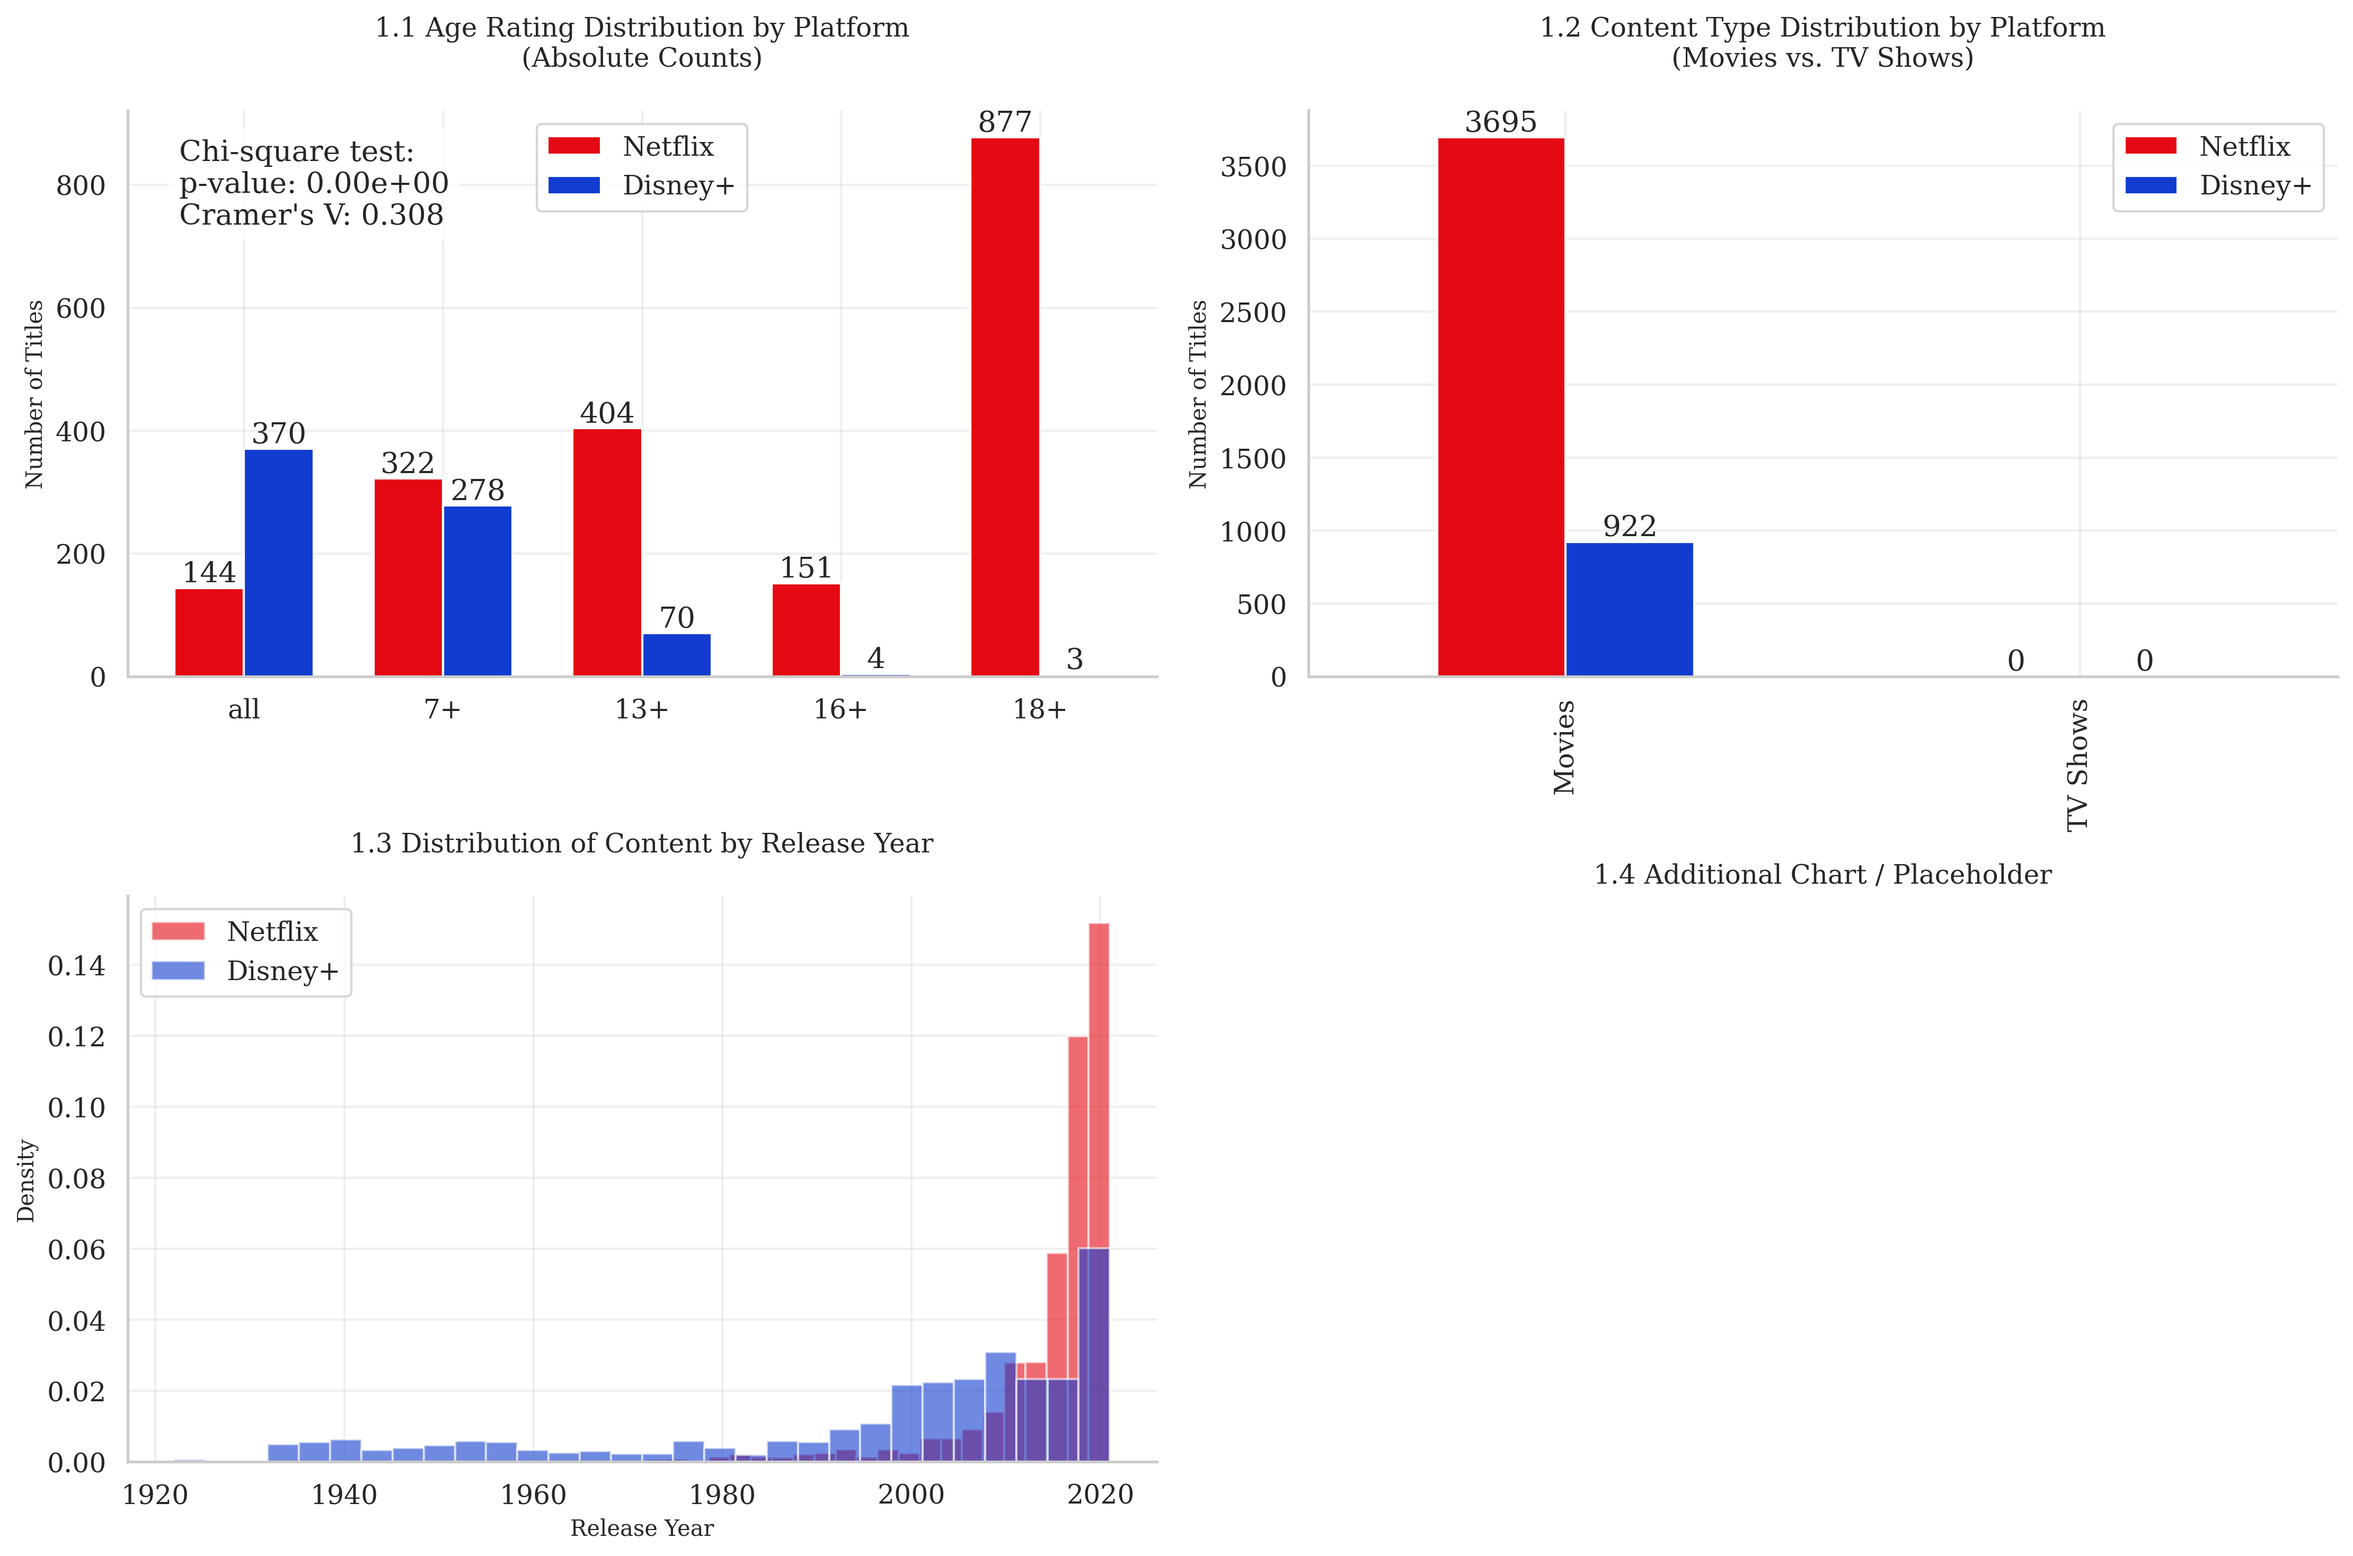
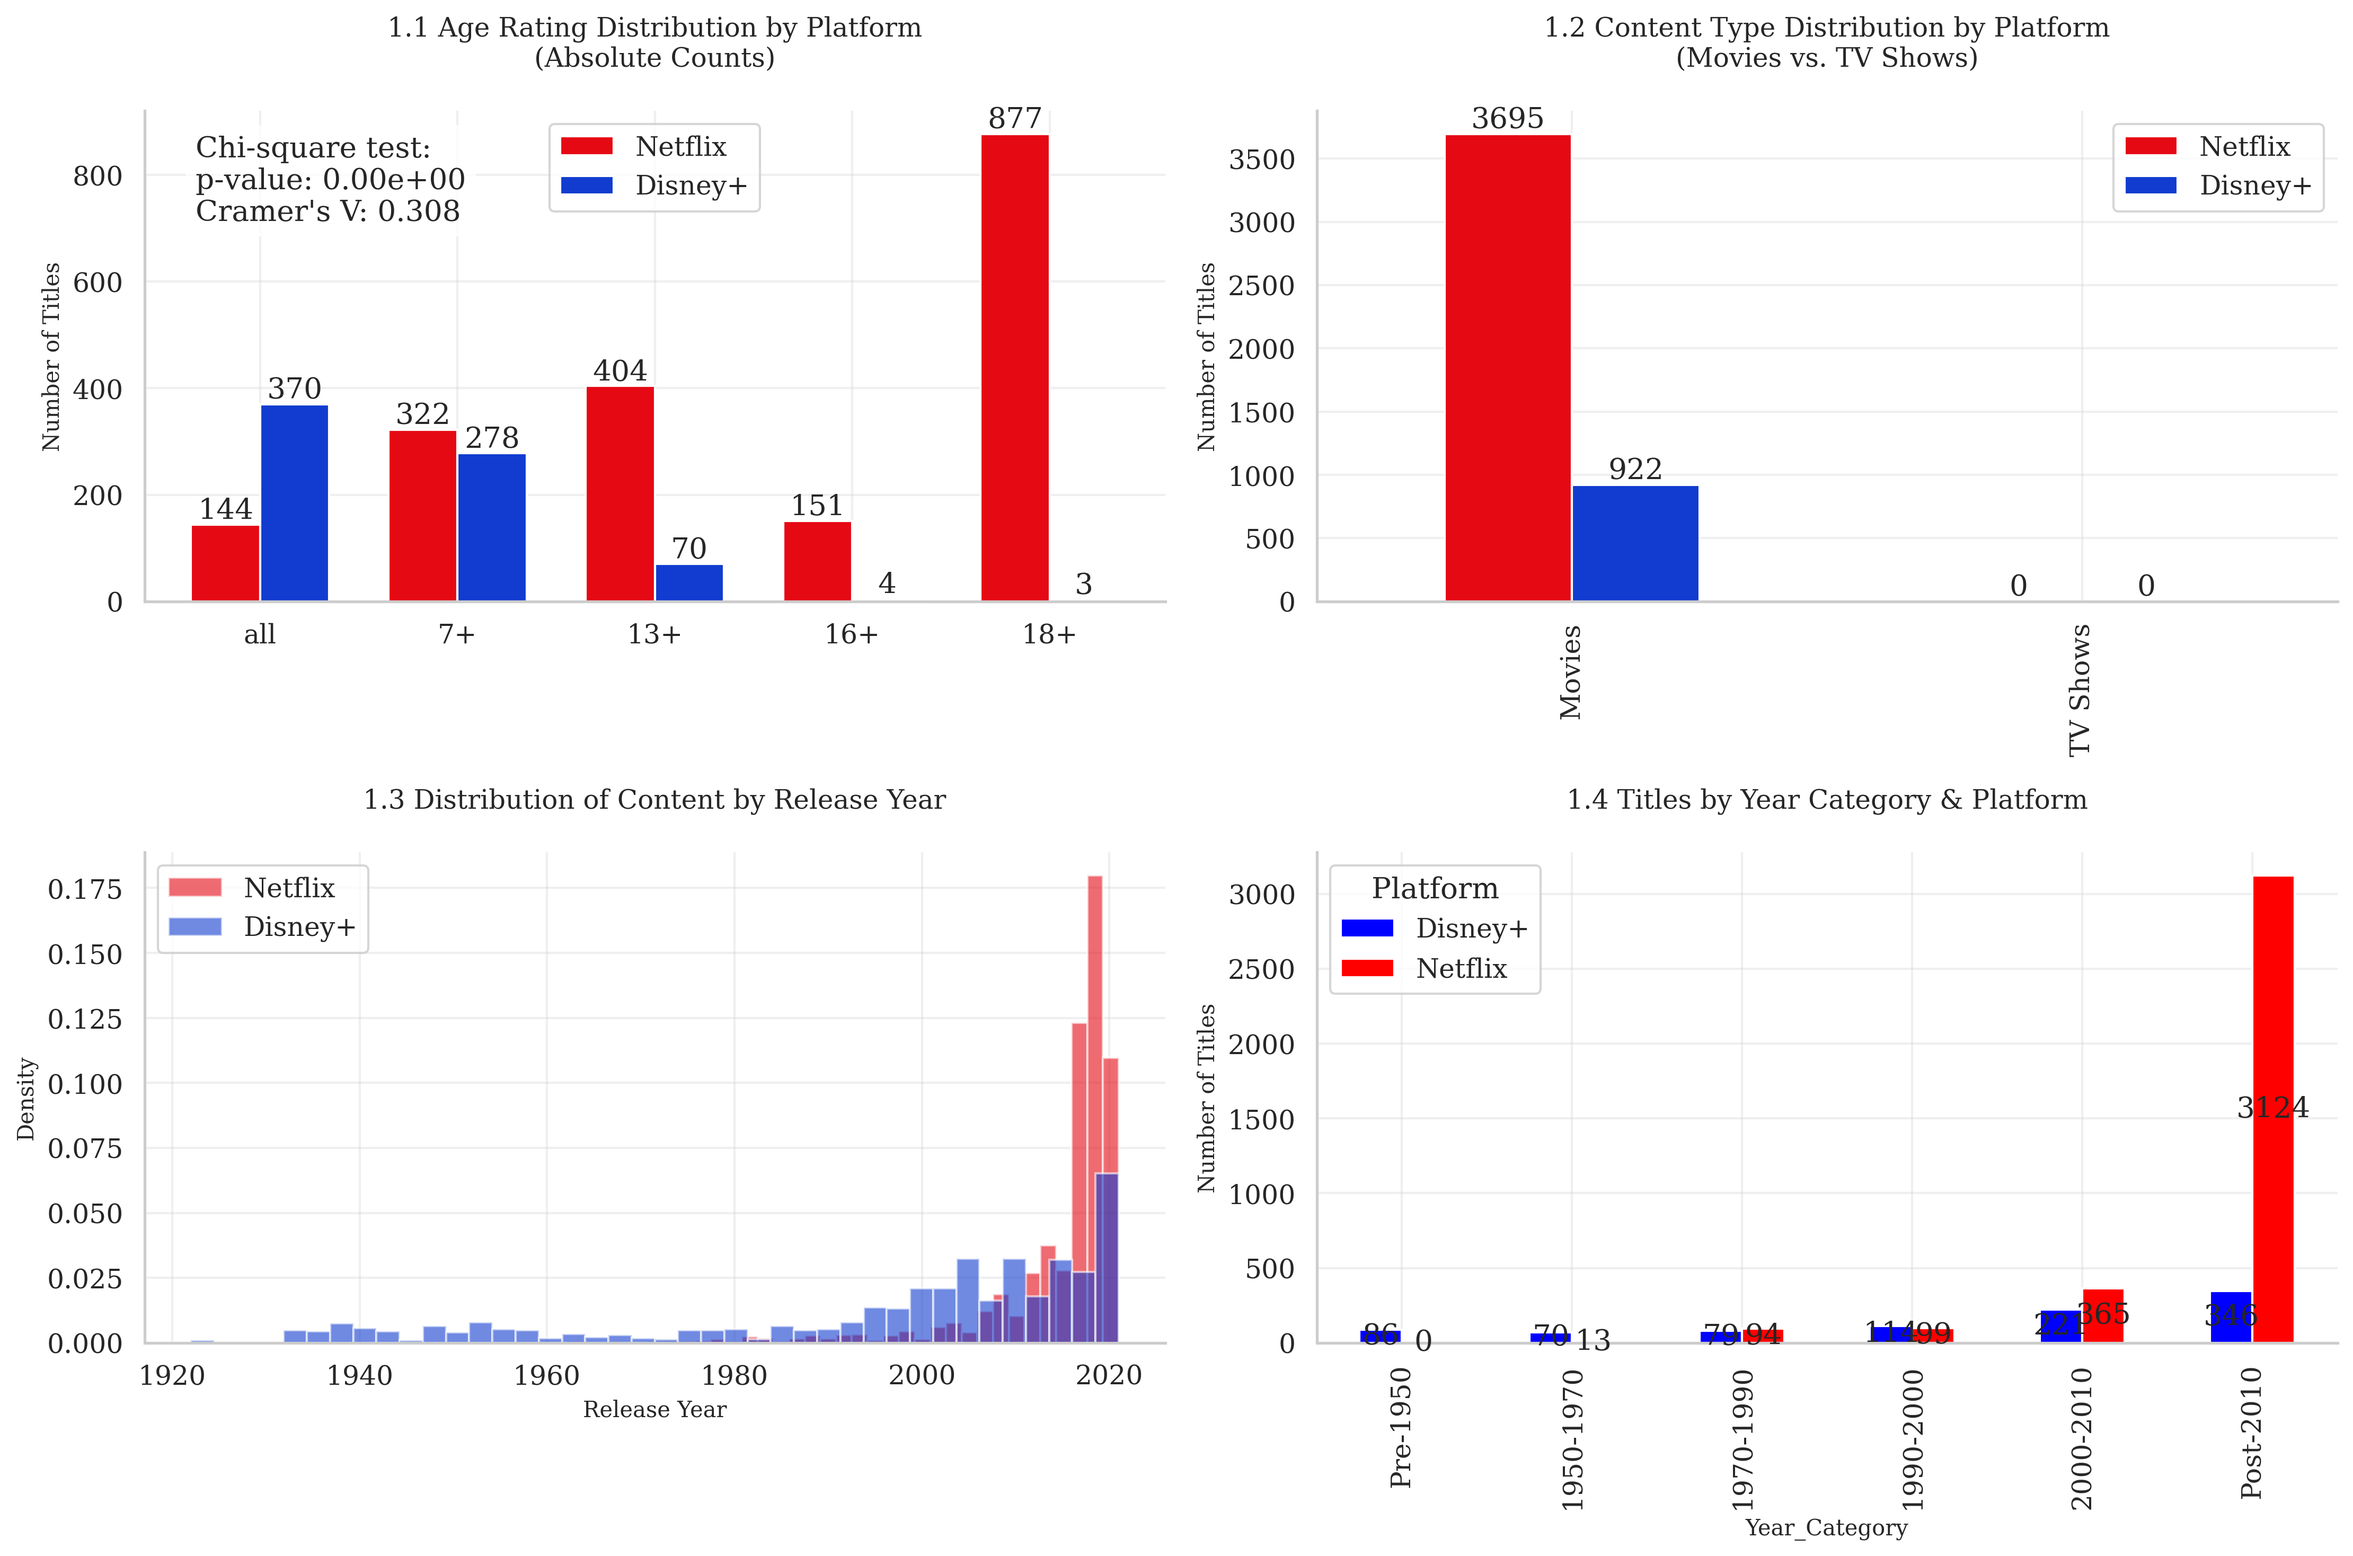
feature: Changes

diff --git a/streaming-analysis.py b/streaming-analysis.py
@@ -55,9 +55,27 @@ class StreamingDataAnalysis:
     def clean_and_prepare_data(self):
         """
         Clean and prepare the data for subsequent analysis.
+        Includes a check to ensure 'Type' is coded numerically for Movies (0) vs. TV Shows (1).
         """
         try:
             print("\nCleaning and preparing data...")
+
+            # -- NEW CHECK/TRANSFORMATION FOR THE 'Type' COLUMN -- #
+            # First, see what unique values the 'Type' column has:
+            unique_type_values = self.streaming_df['Type'].unique()
+            print("Unique 'Type' values found:", unique_type_values)
+
+            # If 'Type' is in string form, convert "TV" or "TV Show" to 1, else 0
+            if self.streaming_df['Type'].dtype == object or any(
+                isinstance(val, str) for val in unique_type_values
+            ):
+                # Convert possible string categories to numeric 0=Movie, 1=TV
+                self.streaming_df['Type'] = np.where(
+                    self.streaming_df['Type'].astype(str).str.lower().str.contains('tv'),
+                    1,
+                    0
+                )
+                print("Converted 'Type' column to numeric (0=Movie, 1=TV Show).")
 
             # Process the Age column as an ordered categorical variable
             self.streaming_df['Age_Ordinal'] = pd.Categorical(
@@ -242,7 +260,9 @@ class StreamingDataAnalysis:
             # Calculate effect size (Z / sqrt(n))
             n_netflix = len(netflix_rt_scores)
             n_disney = len(disney_rt_scores)
-            z_score = (statistic - (n_netflix * n_disney / 2)) / np.sqrt(n_netflix * n_disney * (n_netflix + n_disney + 1) / 12)
+            z_score = (statistic - (n_netflix * n_disney / 2)) / np.sqrt(
+                n_netflix * n_disney * (n_netflix + n_disney + 1) / 12
+            )
             effect_size_val = abs(z_score / np.sqrt(n_netflix + n_disney))
 
             return {
@@ -270,7 +290,7 @@ class StreamingDataAnalysis:
         """
         Generate a set of plots to visualize age distributions,
         release years, quality scores, and additional segmentations,
-        now including a separate RT Score vs. Age Category analysis.
+        including an RT Score vs. Age Category analysis.
         """
         try:
             print("\nGenerating visualizations...")
@@ -294,25 +314,29 @@ class StreamingDataAnalysis:
             x_positions = np.arange(len(self.age_categories))
             bar_width = 0.35
 
-            bars_netflix = ax1.bar(x_positions - bar_width / 2,
-                                   netflix_age_counts,
-                                   bar_width,
-                                   label='Netflix',
-                                   color='#E50914')
-            bars_disney = ax1.bar(x_positions + bar_width / 2,
-                                  disney_age_counts,
-                                  bar_width,
-                                  label='Disney+',
-                                  color='#113CCF')
+            bars_netflix = ax1.bar(
+                x_positions - bar_width / 2,
+                netflix_age_counts,
+                bar_width,
+                label='Netflix',
+                color='#E50914'
+            )
+            bars_disney = ax1.bar(
+                x_positions + bar_width / 2,
+                disney_age_counts,
+                bar_width,
+                label='Disney+',
+                color='#113CCF'
+            )
 
             # Add value labels
             for bar_group in [bars_netflix, bars_disney]:
                 for bar_item in bar_group:
                     height = bar_item.get_height()
                     ax1.text(
-                        bar_item.get_x() + bar_item.get_width() / 2.,
+                        bar_item.get_x() + bar_item.get_width() / 2.0,
                         height,
-                        f'{int(height)}',
+                        f'{int(height)}' if not np.isnan(height) else '0',
                         ha='center', va='bottom'
                     )
 
@@ -363,7 +387,7 @@ class StreamingDataAnalysis:
             # 1.3: Distribution of Content by Release Year (Histogram)
             ax3.hist(
                 self.streaming_df[self.streaming_df['Netflix'] == 1]['Year'],
-                bins=30,
+                bins=40,  # Slightly more bins for finer detail
                 alpha=0.6,
                 label='Netflix',
                 color='#E50914',
@@ -371,7 +395,7 @@ class StreamingDataAnalysis:
             )
             ax3.hist(
                 self.streaming_df[self.streaming_df['Disney+'] == 1]['Year'],
-                bins=30,
+                bins=40,
                 alpha=0.6,
                 label='Disney+',
                 color='#113CCF',
@@ -382,14 +406,36 @@ class StreamingDataAnalysis:
             ax3.set_title('1.3 Distribution of Content by Release Year', pad=20)
             ax3.legend()
 
-            # 1.4: (Optional) Another chart or a placeholder
-            ax4.set_title('1.4 Additional Chart / Placeholder')
-            ax4.axis('off')
+            # 1.4: Titles by Year Category & Platform
+            # We'll show a grouped bar chart with numeric annotations
+            df_yearcat_counts = (
+                self.streaming_df
+                .query("Netflix == 1 or `Disney+` == 1")
+                .assign(
+                    Platform=lambda d: np.where(d['Netflix'] == 1, 'Netflix', 'Disney+')
+                )
+                .groupby(['Year_Category', 'Platform'])
+                .size()
+                .unstack(fill_value=0)
+            )
+
+            # Re-index to maintain the specified chronological order
+            ordered_cats = ['Pre-1950', '1950-1970', '1970-1990',
+                            '1990-2000', '2000-2010', 'Post-2010']
+            df_yearcat_counts = df_yearcat_counts.reindex(ordered_cats)
+
+            df_yearcat_counts.plot(kind='bar', ax=ax4, colormap='bwr')
+            ax4.set_title('1.4 Titles by Year Category & Platform', pad=20)
+            ax4.set_ylabel('Number of Titles')
+            ax4.set_xlabel('Year_Category')
+            ax4.legend(title='Platform')
+
+            for container in ax4.containers:
+                ax4.bar_label(container, label_type='center')
 
             plt.tight_layout()
 
             # === Figure 2: Quality Score Analysis ===
-            # We'll use a 2 x 3 layout for deeper segmentation
             fig_quality, axs_quality = plt.subplots(2, 3, figsize=(20, 10))
             ax_q1, ax_q2, ax_q3, ax_q4, ax_q5, ax_q6 = axs_quality.flatten()
 
@@ -403,8 +449,10 @@ class StreamingDataAnalysis:
                 (self.streaming_df['RT_Score'].notna())
             ]['RT_Score']
 
-            violin_parts = ax_q1.violinplot([netflix_rt_scores, disney_rt_scores],
-                                            showmeans=True, showextrema=True)
+            violin_parts = ax_q1.violinplot(
+                [netflix_rt_scores, disney_rt_scores],
+                showmeans=True, showextrema=True
+            )
 
             # Customize violin colors
             violin_parts['bodies'][0].set_facecolor('#E50914')
@@ -439,7 +487,8 @@ class StreamingDataAnalysis:
                 annotation_text,
                 transform=ax_q1.transAxes,
                 fontsize=7,
-                bbox=dict(facecolor='white', edgecolor='black', boxstyle='round', alpha=0.8, pad=0.5),
+                bbox=dict(facecolor='white', edgecolor='black',
+                          boxstyle='round', alpha=0.8, pad=0.5),
                 verticalalignment='top',
                 horizontalalignment='left'
             )
@@ -497,13 +546,12 @@ class StreamingDataAnalysis:
             # 2.5: Mean RT Scores by Year Category & Platform
             df_platform_scores = (
                 self.streaming_df
-                # Filtre: RT_Score mevcut ve Netflix=1 veya Disney+=1
                 .query("RT_Score == RT_Score and (Netflix == 1 or `Disney+` == 1)")
                 .assign(
                     Platform=lambda d: np.where(d['Netflix'] == 1, 'Netflix', 'Disney+')
                 )
                 .groupby(['Year_Category', 'Platform'])['RT_Score']
-                .mean()  # ortalama puan
+                .mean()
                 .unstack(fill_value=0)
             )
 
@@ -513,19 +561,16 @@ class StreamingDataAnalysis:
             ax_q5.set_xlabel('Year Category')
             ax_q5.legend()
 
-            # 2.6: **RT Scores by Age Category** (NEW)
-            # Bu sayede, yaş kategorilerinin RT puanlarına etkisini ayrı bir grafikte görüyoruz.
-            # Her bir Age_Ordinal için RT_Score değerlerini bir kutu grafikte gösteriyoruz.
+            # 2.6: RT Scores by Age Category
             age_scores_data = []
             labels_for_age = []
             for cat in self.age_categories:
                 cat_scores = self.streaming_df[self.streaming_df['Age_Ordinal'] == cat]['RT_Score'].dropna()
-                # Boş olmayan kategorileri ekleyelim
+                # Only add categories that have actual data
                 if len(cat_scores) > 0:
                     age_scores_data.append(cat_scores)
                     labels_for_age.append(cat)
 
-            # Eğer hiç veri yoksa, kısaca bilgilendirme yapabiliriz
             if age_scores_data:
                 ax_q6.boxplot(age_scores_data, labels=labels_for_age)
                 ax_q6.set_title('2.6 RT Scores by Age Category', pad=20)
@@ -544,7 +589,7 @@ class StreamingDataAnalysis:
             traceback.print_exc()
             raise
 
-    def run_full_analysis_and_save(self, output_dir='.'):
+    def run_full_analysis_and_save(self, output_dir='.' ):
         """
         Run all analyses, generate plots, and save the outputs to files.
         """
